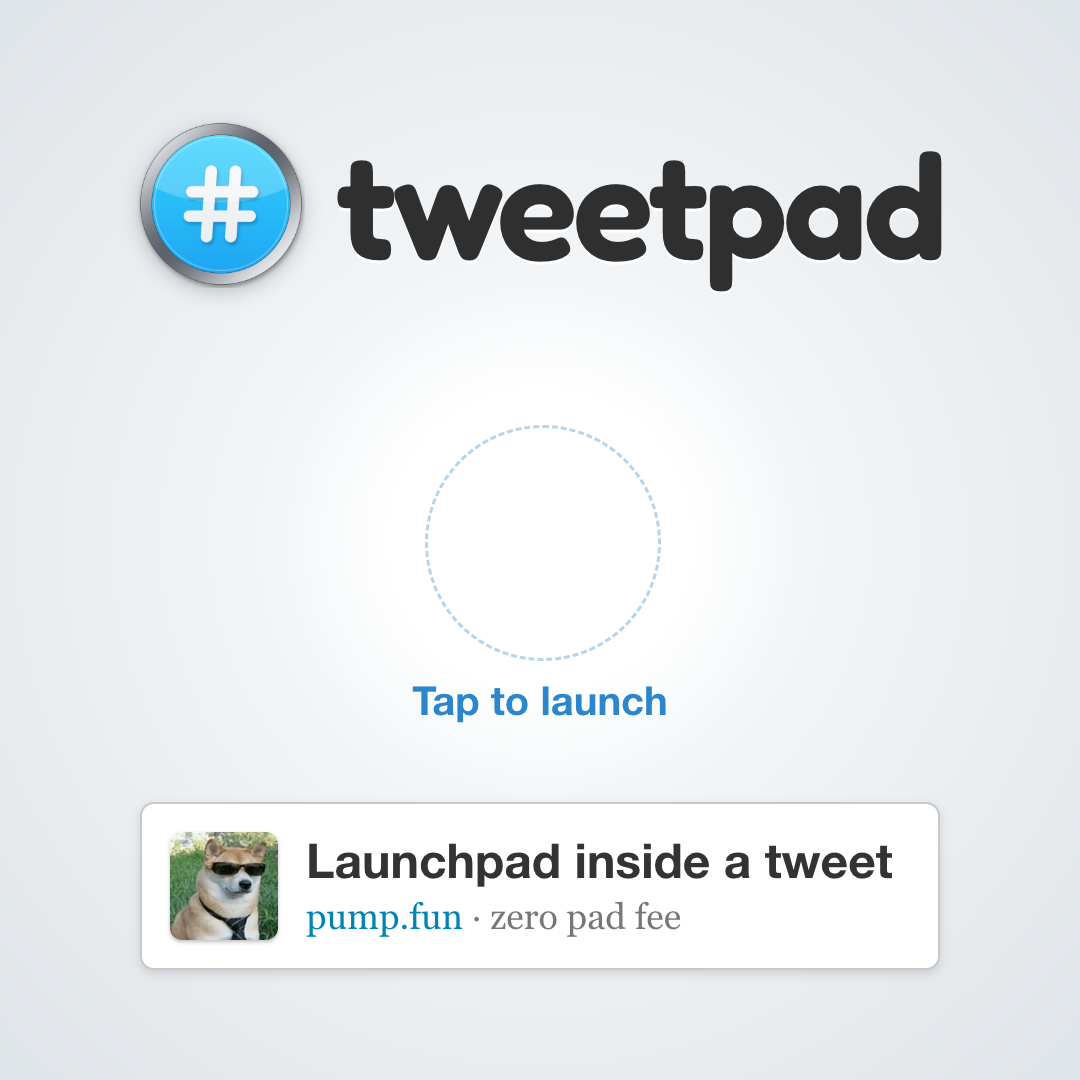
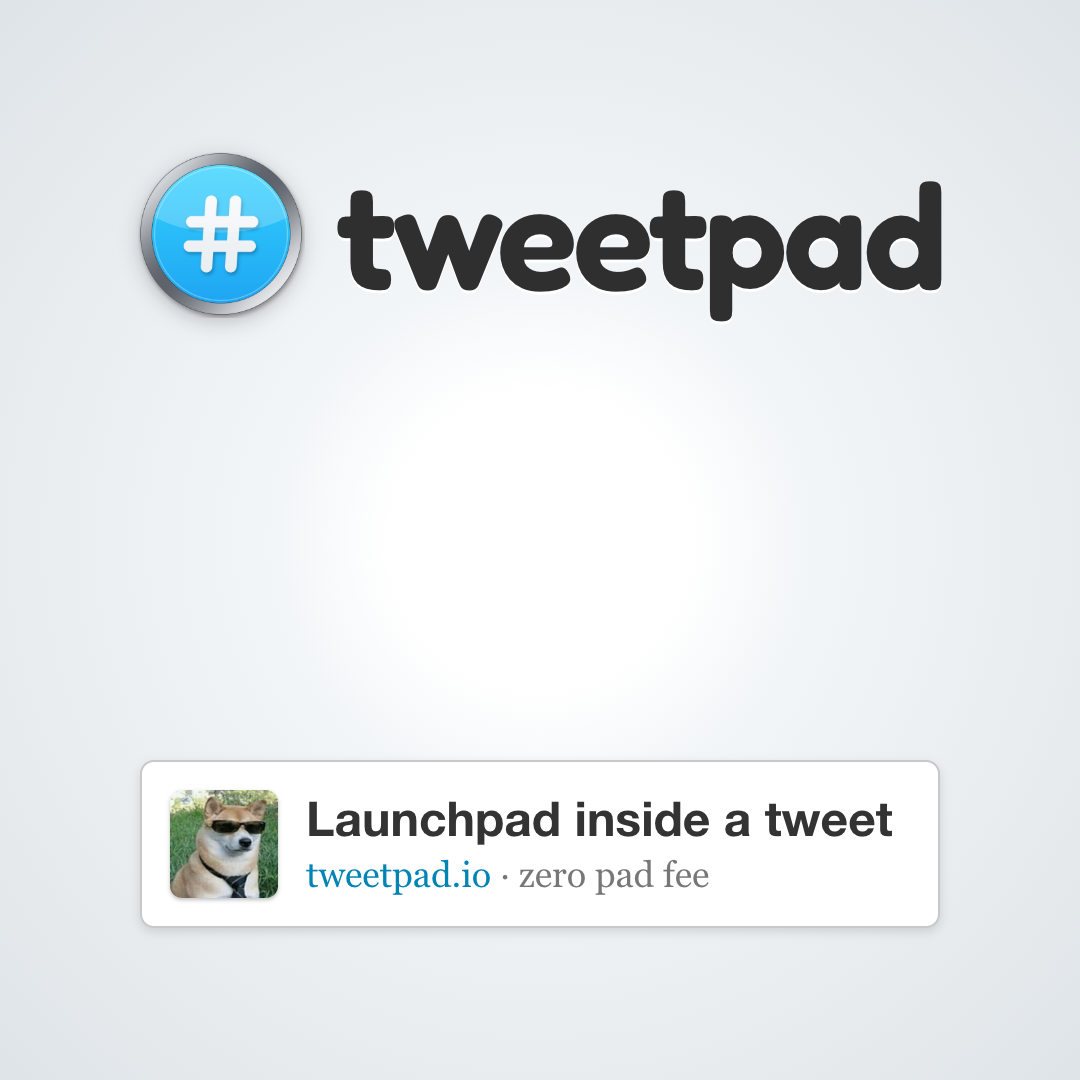
Review fixes before launch, and cards that read well outside X
From the pre-launch review:
- create: the coin image must be a short IPFS link; a mint's pending launch
  can't be overwritten (SET NX)
- record: the on-chain pump.fun create must carry the built name, symbol and
  uri (checked against the real $JACK launch)
- rate limits on search, card images and social reads; card images redirect
  stray query params to one canonical URL so the CDN cache holds
- market caps are only stored for coins launched here, and search reads caps
  for its hits only (HMGET), so the hash can't be grown or slow search down
- reply counts use their own counter (the room list is trimmed to 200)
- your timeline refetches past the CDN right after you retweet
- dev buy estimate can't go negative for sub-lamport amounts

Cards: no ring or "Tap to …" hint, logo/coin above and the card below with
room for X's play button between; "tweetpad.io · zero pad fee"; preview.png?v=6

Changed region(s): [[0.1222, 0.7028, 0.8861, 0.9167], [0.1222, 0.0917, 0.8861, 0.3056], [0.3667, 0.6111, 0.6417, 0.6722]]

diff --git a/api/card-image.js b/api/card-image.js
@@ -1,8 +1,8 @@
 // The X card image for one coin: /api/card-image?mint=<mint>, a 1080×1080 PNG in the 2012 skin. X draws its play button
-// over the middle, so the middle stays clear: the coin up top, "Tap to trade" under the button, the numbers in a card
-// at the bottom. Rendered with @vercel/og (satori + resvg, its own font handling, so no system fonts are needed) and held
+// over the middle, so the coin sits above the middle and the numbers card below it; where there's no play button
+// (other sites, chats) the two read as one balanced poster. Rendered with @vercel/og (satori + resvg, its own font handling, so no system fonts are needed) and held
 // at the CDN for 5 minutes, so the market cap is fresh when a post is first shared without rendering per view.
-const { isPubkey, redis, marketData } = require('./_lib');
+const { isPubkey, redis, marketData, rateLimit } = require('./_lib');
 
 const SIZE = 1080;
 /* the app icon from the hash kit, fetched from our own assets once per instance and inlined */
@@ -52,6 +52,12 @@ const img = (src, style) => ({ type: 'img', props: { src, style } });
 
 module.exports = async (req, res) => {
   const mint = String((req.query && req.query.mint) || '');
+  /* one URL per coin: anything else redirects to it, so random query strings can't skip the CDN cache */
+  if (Object.keys(req.query || {}).some(k => k !== 'mint')) {
+    res.setHeader('cache-control', 'public, s-maxage=3600');
+    return res.redirect(301, '/api/card-image?mint=' + encodeURIComponent(mint));
+  }
+  if (!await rateLimit(req, res, 'cardimg', 200, 600)) return;
   const origin = (req.headers['x-forwarded-proto'] || 'https').split(',')[0] + '://' + (req.headers['x-forwarded-host'] || req.headers.host || 'www.tweetpad.io');
   let launch = null;
   if (isPubkey(mint)) {
@@ -75,7 +81,7 @@ module.exports = async (req, res) => {
   const tree = el('div', { width: SIZE, height: SIZE, position: 'relative', flexDirection: 'column', alignItems: 'center', fontFamily: sans,
       backgroundImage: 'radial-gradient(circle at 50% 50%, #ffffff 0px, #f3f6f8 260px, #dfe4e8 760px)' },
     /* top: the coin */
-    el('div', { position: 'absolute', top: 96, left: 0, right: 0, flexDirection: 'column', alignItems: 'center' },
+    el('div', { position: 'absolute', top: 130, left: 0, right: 0, flexDirection: 'column', alignItems: 'center' },
       el('div', { alignItems: 'center' },
         picture ? img(picture, { width: 168, height: 168, borderRadius: 30, objectFit: 'cover', boxShadow: '0 6px 16px rgba(0,0,0,.25)' })
           : el('div', { width: 168, height: 168, borderRadius: 30, backgroundColor: '#2b86cc', color: '#fff', fontSize: 90, fontWeight: 700,
@@ -83,12 +89,8 @@ module.exports = async (req, res) => {
         el('div', { flexDirection: 'column', marginLeft: 36, maxWidth: 640 },
           el('div', { fontSize: 104, fontWeight: 700, color: '#2f2f2f', letterSpacing: -2, lineHeight: 1 }, '$' + launch.symbol),
           el('div', { fontSize: 44, color: '#777', marginTop: 10, lineHeight: 1.1 }, launch.name.length > 24 ? launch.name.slice(0, 23) + '…' : launch.name)))),
-    /* middle: where X's play button lands, and the hint under it */
-    el('div', { position: 'absolute', left: SIZE / 2 - 115, top: SIZE / 2 - 115, width: 230, height: 230, borderRadius: 115,
-      border: '3px dashed rgba(43,134,204,.35)' }),
-    el('div', { position: 'absolute', top: 680, left: 0, right: 0, justifyContent: 'center', fontSize: 40, fontWeight: 700, color: '#2b86cc' }, 'Tap to trade'),
     /* bottom: the numbers, as a 2012 tweet card */
-    el('div', { position: 'absolute', left: 120, right: 120, bottom: 100, alignItems: 'center', padding: '26px 34px', backgroundColor: '#fff',
+    el('div', { position: 'absolute', left: 120, right: 120, top: 760, alignItems: 'center', padding: '26px 34px', backgroundColor: '#fff',
         border: '2px solid #c8c8c8', borderRadius: 14, boxShadow: '0 4px 10px rgba(0,0,0,.12)' },
       el('div', { flexDirection: 'column', flexGrow: 1 },
         el('div', { alignItems: 'baseline' },

diff --git a/scripts/preview.html b/scripts/preview.html
@@ -2,8 +2,8 @@
 <!-- Source for preview.png, the X card image. Render at 1080×1080 from the repo root:
      "/Applications/Google Chrome.app/Contents/MacOS/Google Chrome" --headless=new --hide-scrollbars --window-size=1080,1080 \
        --virtual-time-budget=4000 --screenshot=preview.png scripts/preview.html
-     X draws its play button over the middle of this image, so the middle stays clear: the logo sits above it, a soft
-     spotlight frames it, "Tap to launch" sits right under it, and the pitch card fills the bottom. -->
+     X draws its play button over the middle of this image, so the logo sits above the middle and the pitch card below it;
+     elsewhere (no play button) the two read as one balanced poster. -->
 <html lang="en">
 <head>
 <meta charset="utf-8">
@@ -14,18 +14,13 @@
   body { position: relative; font-family: "Helvetica Neue", Helvetica, Arial, sans-serif; -webkit-font-smoothing: antialiased;
          background: radial-gradient(circle at 50% 50%, #ffffff 0 150px, #f3f6f8 260px, #dfe4e8 760px); }
   /* top: the lockup, app icon + wordmark on one line */
-  .lockup { position: absolute; top: 120px; left: 0; right: 0; display: flex; align-items: center; justify-content: center; gap: 30px; }
+  .lockup { position: absolute; top: 150px; left: 0; right: 0; display: flex; align-items: center; justify-content: center; gap: 30px; }
   /* the app icon from the hash kit: a glossy # button with its own chrome ring */
   .icon { width: 168px; height: 168px; flex: none; filter: drop-shadow(0 6px 10px rgba(0, 0, 0, .22)); }
   h1 { margin: 0; font: 600 150px/1 "Fredoka", "Varela Round", "Arial Rounded MT Bold", sans-serif; letter-spacing: -.03em; color: #2f2f2f;
        text-shadow: 0 3px 0 #fff; }
-  /* middle: a ring where X's play button lands, and the hint under it */
-  .ring { position: absolute; left: 50%; top: 50%; width: 230px; height: 230px; margin: -115px 0 0 -115px; border-radius: 50%;
-          border: 3px dashed rgba(43, 134, 204, .35); }
-  .hint { position: absolute; top: 680px; left: 0; right: 0; text-align: center; font: bold 40px/1 "Helvetica Neue", Helvetica, Arial, sans-serif;
-          color: #2b86cc; text-shadow: 0 2px 0 #fff; }
   /* bottom: the pitch, as a 2012 tweet card */
-  .card { position: absolute; left: 140px; right: 140px; bottom: 110px; display: flex; align-items: center; gap: 28px; padding: 28px 34px 28px 28px;
+  .card { position: absolute; left: 140px; right: 140px; top: 760px; display: flex; align-items: center; gap: 28px; padding: 28px 34px 28px 28px;
           background: #fff; border: 2px solid #c8c8c8; border-radius: 14px; box-shadow: 0 4px 10px rgba(0, 0, 0, .12); }
   .card img { width: 108px; height: 108px; flex: none; border-radius: 12px; object-fit: cover; box-shadow: 0 2px 4px rgba(0, 0, 0, .25); }
   .card b { display: block; font: bold 48px/1.1 "Helvetica Neue", Helvetica, Arial, sans-serif; color: #333; }
@@ -35,11 +30,9 @@
 </head>
 <body>
   <div class="lockup"><img class="icon" src="../assets/brand/tweetpad-hash-512.png" alt=""><h1>tweetpad</h1></div>
-  <div class="ring"></div>
-  <div class="hint">Tap to launch</div>
   <div class="card">
     <img src="../assets/agent-doge.jpg" alt="">
-    <div><b>Launchpad inside a tweet</b><span><em>pump.fun</em> · zero pad fee</span></div>
+    <div><b>Launchpad inside a tweet</b><span><em>tweetpad.io</em> · zero pad fee</span></div>
   </div>
 </body>
 </html>

diff --git a/api/launches.js b/api/launches.js
@@ -8,7 +8,7 @@
 // GET ?curve=new: a fresh SOL curve's reserves and buy fee, so the form can estimate what a dev buy gets.
 // POST { signature, mint }: list a launch, but only after checking on chain that the transaction succeeded,
 // is a pump.fun create for that mint, was paid by the wallet that built it here, and was built here (pending).
-const { PUMP_PROGRAM, cors, readJson, isPubkey, redis, rpc, connection, quoteConfig, pairQuote, marketData, rateLimit, fail } = require('./_lib');
+const { PUMP_PROGRAM, cors, readJson, isPubkey, b58decode, redis, rpc, connection, quoteConfig, pairQuote, marketData, rateLimit, fail } = require('./_lib');
 
 const PAGE = 24;
 
@@ -25,7 +25,7 @@ async function list(req, res) {
     try { const p = await pairQuote(String(q.pair)); return res.status(200).json({ ok: true, mint: p.mint, symbol: p.symbol }); }
     catch (err) { return fail(res, err.status || 502, err.message); }
   }
-  if (q.q != null) return search(String(q.q), res);
+  if (q.q != null) { if (!await rateLimit(req, res, 'search', 120, 600)) return; return search(String(q.q), res); }
   if (q.curve === 'new') return newCurve(res);
   if (q.creator) {
     if (!isPubkey(q.creator)) return fail(res, 400, 'invalid creator');
@@ -96,9 +96,11 @@ async function search(text, res) {
     .filter(l => !needle || [l.name, l.symbol, l.mint].some(v => String(v || '').toLowerCase().includes(needle)));
   /* rank by market cap: caps come from the mcaps hash every market lookup fills; the newest coins without one yet get a
      DexScreener call (30 at most) so a fresh launch can still climb */
-  const [capRows] = await redis(['HGETALL', 'mcaps']);
   const caps = {};
-  for (let i = 0; i < capRows.length; i += 2) caps[capRows[i]] = Number(capRows[i + 1]);
+  if (hits.length) {
+    const [capRows] = await redis(['HMGET', 'mcaps', ...hits.map(l => l.mint)]);
+    hits.forEach((l, i) => { if (capRows[i] != null) caps[l.mint] = Number(capRows[i]); });
+  }
   /* ...and the current leaders are re-checked too, so a coin that has since dumped can't hold a top spot on an old cap */
   const unknown = hits.filter(l => !(l.mint in caps)).sort((a, b) => b.time - a.time).slice(0, 30).map(l => l.mint);
   const leaders = hits.filter(l => l.mint in caps).sort((a, b) => caps[b.mint] - caps[a.mint]).slice(0, 30).map(l => l.mint);
@@ -143,6 +145,10 @@ async function record(req, res) {
   if (!signers.includes(mint)) return fail(res, 400, 'transaction did not create this mint');
   if (!keys.includes(PUMP_PROGRAM)) return fail(res, 400, 'not a pump.fun transaction');
   if (pending.quote && !keys.includes(pending.quote.mint)) return fail(res, 400, 'transaction is not paired with $' + pending.quote.symbol);
+  /* the pump.fun create itself carries name, symbol and uri: they must be what was built here */
+  const pumpData = msg.instructions.filter(ix => keys[ix.programIdIndex] === PUMP_PROGRAM).map(ix => Buffer.from(b58decode(ix.data) || []));
+  const carries = (text) => pumpData.some(d => d.includes(Buffer.from(String(text), 'utf8')));
+  if (!carries(pending.uri) || !carries(pending.name) || !carries(pending.symbol)) return fail(res, 400, 'transaction metadata does not match what was built here');
 
   const time = tx.blockTime ? tx.blockTime * 1000 : Date.now();
   const launch = { mint, name: pending.name, symbol: pending.symbol, image: pending.image, thumb: pending.thumb || '', uri: pending.uri,

diff --git a/assets/tweetpad.js b/assets/tweetpad.js
@@ -811,7 +811,9 @@ async function loadCurve() {
 function estimateBuy(sol) {
   const c = curve.data;
   if (!c || !(sol > 0)) return null;
-  const input = (BigInt(Math.floor(sol * 1e9)) - 1n) * 10000n / BigInt(c.feeBps + 10000);
+  const lamports = BigInt(Math.floor(sol * 1e9));
+  if (lamports < 1n) return null;
+  const input = (lamports - 1n) * 10000n / BigInt(c.feeBps + 10000);
   let tokens = input * BigInt(c.virtualTokens) / (BigInt(c.virtualSol) + input);
   if (tokens > BigInt(c.realTokens)) tokens = BigInt(c.realTokens);
   return { tokens: Number(tokens) / 10 ** c.decimals, pct: Number(tokens * 1000000n / BigInt(c.supply)) / 1e4, feePct: c.feeBps / 100 };
@@ -1199,7 +1201,8 @@ async function react2(action, m) {
     }
     social.stats[m.id] = out;
     if (action === 'retweet' && on) setVerdict('ok', 'Retweeted!', 'It’s on your profile now');
-    delete timelines[wallet.account.address];
+    timelines[wallet.account.address] = null;
+    loadTimeline(wallet.account.address, true);
   } catch (err) {
     social.stats[m.id] = s;
     const msg = errText(err).replace(/^Error /, '');
@@ -1281,9 +1284,9 @@ async function sendReply() {
 
 /* ---------- a profile's tweets: their posts, replies and retweets ---------- */
 const timelines = {};   // wallet → { posts, error } (dropped after your own like / retweet so it refetches)
-async function loadTimeline(wallet) {
+async function loadTimeline(wallet, fresh) {
   try {
-    const res = await fetch('/api/social?user=' + wallet);
+    const res = await fetch('/api/social?user=' + wallet + (fresh ? '&fresh=1' : ''));
     const out = await res.json();
     if (!res.ok) throw new Error(out.error || 'HTTP ' + res.status);
     timelines[wallet] = { posts: out.posts, error: null };

diff --git a/api/social.js b/api/social.js
@@ -10,13 +10,13 @@ const MAX_IDS = 60, TIMELINE = 50;
 const validId = (id) => /^\d{1,12}$/.test(String(id));
 
 async function stats(ids, wallet) {
-  const cmds = ids.flatMap(id => [['SCARD', 'likes:' + id], ['SCARD', 'rts:' + id], ['LLEN', 'chat:reply:' + id],
+  const cmds = ids.flatMap(id => [['SCARD', 'likes:' + id], ['SCARD', 'rts:' + id], ['GET', 'replies:' + id],
     ...(wallet ? [['SISMEMBER', 'likes:' + id, wallet], ['SISMEMBER', 'rts:' + id, wallet]] : [])]);
   const out = ids.length ? await redis(...cmds) : [];
   const per = wallet ? 5 : 3, result = {};
   ids.forEach((id, i) => {
     const r = out.slice(i * per, i * per + per);
-    result[id] = { likes: r[0] || 0, retweets: r[1] || 0, replies: r[2] || 0, liked: !!r[3], retweeted: !!r[4] };
+    result[id] = { likes: r[0] || 0, retweets: r[1] || 0, replies: Number(r[2]) || 0, liked: !!r[3], retweeted: !!r[4] };
   });
   return result;
 }
@@ -54,7 +54,9 @@ module.exports = async (req, res) => {
   try {
     if (req.method === 'GET') {
       const q = req.query || {};
-      res.setHeader('cache-control', 'public, s-maxage=3, stale-while-revalidate=10');
+      if (!await rateLimit(req, res, 'social-read', 300, 600)) return;
+      /* fresh=1: your own timeline right after you retweet, past the CDN */
+      res.setHeader('cache-control', q.fresh ? 'no-store' : 'public, s-maxage=3, stale-while-revalidate=10');
       if (q.user) {
         if (!isPubkey(String(q.user))) return fail(res, 400, 'invalid wallet');
         return res.status(200).json({ posts: await timeline(String(q.user)) });

diff --git a/api/create.js b/api/create.js
@@ -70,6 +70,8 @@ module.exports = async (req, res) => {
   if (!Number.isFinite(devBuy) || devBuy < 0 || devBuy > MAX_DEV_BUY) return fail(res, 400, 'dev buy must be between 0 and ' + MAX_DEV_BUY + ' SOL');
   if (quote.mint && devBuy > 0) return fail(res, 400, 'dev buy is not available yet for coins paired with $' + quote.symbol);
   const thumb = cleanThumb(b.thumb);
+  /* the image is shown everywhere the coin is (lists, cards, feed): only a short IPFS link, nothing else */
+  const imageUrl = typeof image === 'string' && /^https:\/\/[A-Za-z0-9.-]{1,64}\/ipfs\/[A-Za-z0-9]{46,100}$/.test(image) ? image : '';
 
   let tx;
   try {
@@ -87,9 +89,11 @@ module.exports = async (req, res) => {
   }
 
   try {
-    const pending = { mint, creator: publicKey, name, symbol, uri, image: typeof image === 'string' ? image : '', thumb,
+    const pending = { mint, creator: publicKey, name, symbol, uri, image: imageUrl, thumb,
       devBuy, quote: quote.mint ? { mint: quote.mint, symbol: quote.symbol } : null, at: Date.now() };
-    await redis(['SET', 'pending:' + mint, JSON.stringify(pending), 'EX', PENDING_TTL]);
+    /* NX: the first build for a mint holds it, so nobody can swap in their own metadata before it's listed */
+    const [set] = await redis(['SET', 'pending:' + mint, JSON.stringify(pending), 'NX', 'EX', PENDING_TTL]);
+    if (set !== 'OK') return fail(res, 409, 'this mint is already being launched; start over with a new one');
   } catch (err) {
     return fail(res, err.status || 502, err.message);
   }

diff --git a/api/_lib.js b/api/_lib.js
@@ -165,8 +165,13 @@ async function marketData(mints) {
       dex: p.dexId, pair: p.pairAddress,
     };
   }
-  const caps = Object.entries(market).filter(([, v]) => v.mcap).flatMap(([k, v]) => [k, String(v.mcap)]);
-  if (caps.length) await redis(['HSET', 'mcaps', ...caps]).catch(() => {});   // a bonus: never fail market data over it
+  /* only coins launched here are kept, so the hash can't be grown with arbitrary mints */
+  try {
+    const known = Object.keys(market).filter(k => market[k].mcap);
+    const [listed] = known.length ? await redis(['HMGET', 'launchidx', ...known]) : [[]];
+    const caps = known.filter((k, i) => listed[i]).flatMap(k => [k, String(market[k].mcap)]);
+    if (caps.length) await redis(['HSET', 'mcaps', ...caps]);
+  } catch { /* a bonus: never fail market data over it */ }
   return market;
 }
 

diff --git a/index.html b/index.html
@@ -22,11 +22,11 @@
 <meta name="twitter:player" content="https://www.tweetpad.io/embed.html">
 <meta name="twitter:player:width" content="480">
 <meta name="twitter:player:height" content="480">
-<meta name="twitter:image" content="https://www.tweetpad.io/preview.png?v=3">
+<meta name="twitter:image" content="https://www.tweetpad.io/preview.png?v=6">
 <meta name="twitter:image:alt" content="tweetpad">
 <meta property="og:title" content="tweetpad">
 <meta property="og:description" content="Launch a token without leaving the tweet.">
-<meta property="og:image" content="https://www.tweetpad.io/preview.png?v=3">
+<meta property="og:image" content="https://www.tweetpad.io/preview.png?v=6">
 
 <link rel="stylesheet" href="https://fonts.googleapis.com/css2?family=Fredoka:wght@600&display=swap">
 <style>

diff --git a/api/chat.js b/api/chat.js
@@ -91,7 +91,9 @@ async function send(b, res) {
   const json = JSON.stringify(message);
   await redis(['LPUSH', 'chat:' + room, json], ['LTRIM', 'chat:' + room, 0, KEEP - 1],
     /* timeline posts and replies live on by id, and on their author's profile */
-    ...(room === 'feed' || replyTo ? [['SET', 'msg:' + id, json], ['ZADD', 'user:posts:' + wallet, message.t, 'p:' + id]] : []));
+    ...(room === 'feed' || replyTo ? [['SET', 'msg:' + id, json], ['ZADD', 'user:posts:' + wallet, message.t, 'p:' + id]] : []),
+    /* a reply count of its own: the room list is trimmed to the latest 200 */
+    ...(replyTo ? [['INCR', 'replies:' + replyTo.id]] : []));
   return res.status(200).json({ ok: true, message });
 }
 
